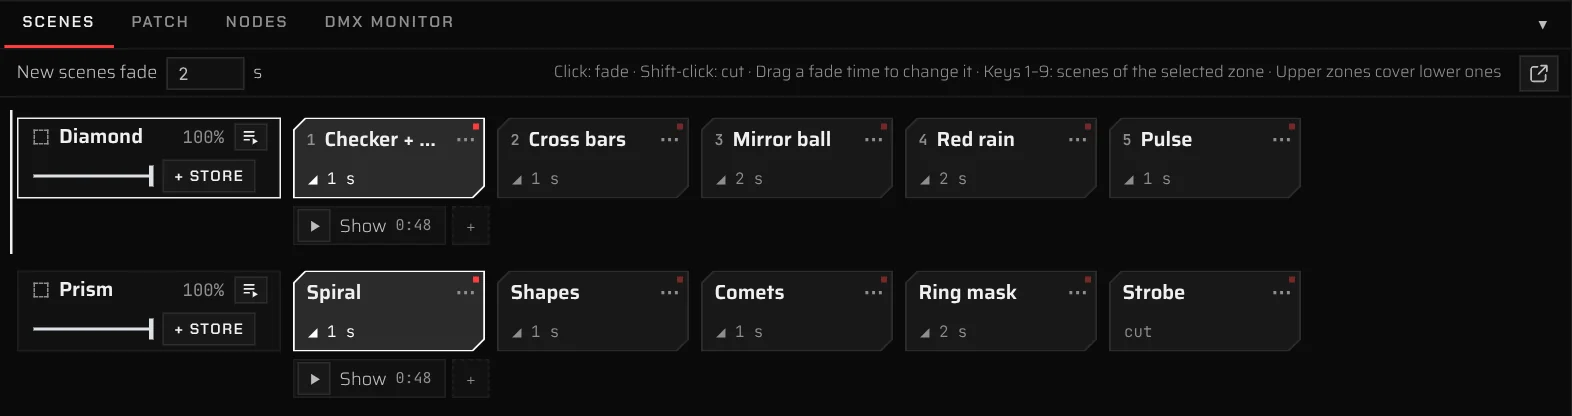
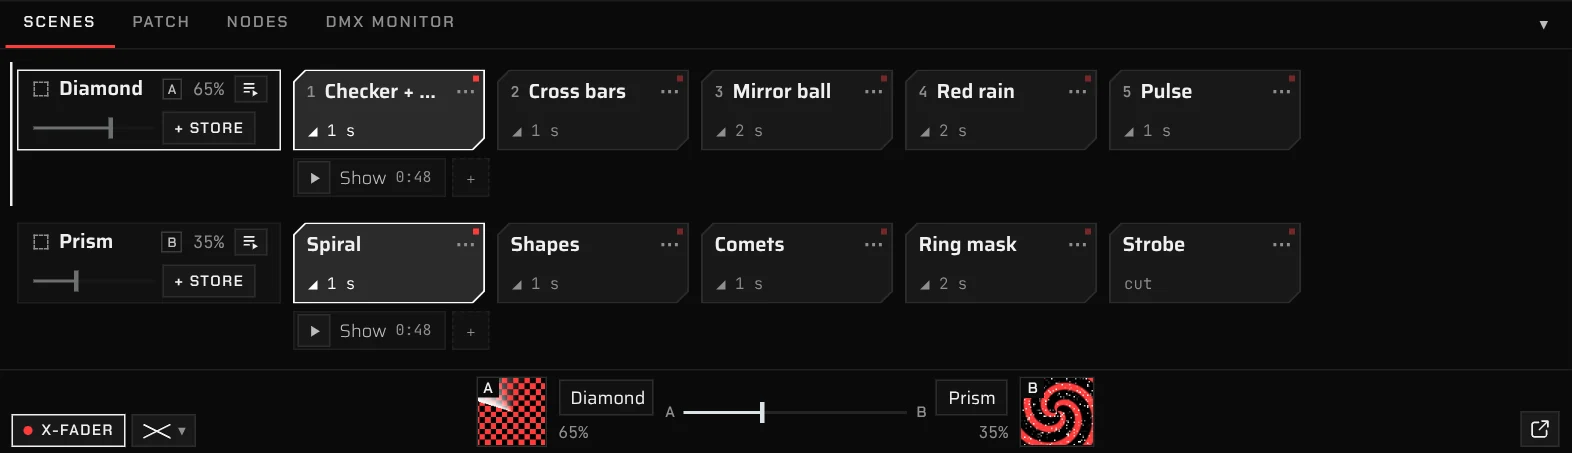
Site: the X-Fader (Scenes screenshot with it on, Scenes, MIDI and Remote lists); Discord community in Manual & support and the footer
Claude-Session: https://claude.ai/code/session_01TnTf954bCnfcgD4L8cjhPo

diff --git a/docs/index.html b/docs/index.html
@@ -240,7 +240,8 @@
 @media (max-width:560px){#noupix .np-dl{grid-template-columns:minmax(0,1fr)}}
 
 /* support */
-#noupix .np-help{display:grid;grid-template-columns:repeat(3,minmax(0,1fr));gap:16px}
+#noupix .np-help{display:grid;grid-template-columns:repeat(4,minmax(0,1fr));gap:16px}
+@media (max-width:1200px){#noupix .np-help{grid-template-columns:repeat(2,minmax(0,1fr))}}
 #noupix .np-help a{display:flex;flex-direction:column;gap:10px;padding:28px 26px;border:1px solid var(--line2);background:var(--bg1);transition:border-color .15s}
 #noupix .np-help a:hover{border-color:var(--text2)}
 #noupix .np-help b{font:700 20px/1.15 var(--label);letter-spacing:.04em;text-transform:uppercase}
@@ -466,10 +467,11 @@
             <li>Scenes per zone with crossfades; the fade time sits on each scene</li>
             <li>Playlists of scenes with play times: in a loop, once, or handing over to another</li>
             <li>Keys 1–9 play the scenes of the selected zone; a separate Scenes window for a second screen</li>
+            <li><b>X-Fader</b>: one fader between two zones, with a live preview of each; Mix, Dip or Cut</li>
           </ul>
         </div>
         <figure>
-          <div class="np-media np-cut"><img src="img/feature-scenes.webp" width="1572" height="416" loading="lazy" alt="The Scenes panel: the zones Diamond and Prism with five scenes each, their fade times and a Show playlist under each zone"></div>
+          <div class="np-media np-cut"><img src="img/feature-scenes.webp" width="1572" height="453" loading="lazy" alt="The Scenes panel: the zones Diamond and Prism with five scenes each, their fade times and a Show playlist under each zone; at the bottom the X-Fader, with the previews of Diamond (A) and Prism (B) and its fader a third of the way across"></div>
         </figure>
       </article>
 
@@ -500,7 +502,7 @@
           <h3>Learn your controller in a second</h3>
           <p>Press Learn, move a fader, click what it should move.</p>
           <ul class="np-list">
-            <li>Master, blackout, group dimmers, zone levels, scenes and playlists</li>
+            <li>Master, blackout, the X-Fader, group dimmers, zone levels, scenes and playlists</li>
             <li>Macros and any control of an effect; faders pick up where the slider is</li>
             <li>Every mapping as a wire in the patch bay</li>
             <li>No controller at hand? A virtual one on screen</li>
@@ -518,7 +520,7 @@
           <h3>Hand a phone to the end user</h3>
           <p>The people who run the place get the buttons they need, not the mapping. Phones, tablets and other computers on the network log in with a role.</p>
           <ul class="np-list">
-            <li><em>Remote</em>: a simple page to play scenes and playlists and dim each zone</li>
+            <li><em>Remote</em>: a simple page to play scenes and playlists and dim each zone, and the X-Fader when you choose</li>
             <li><em>Operator</em>: content, scenes and playlists; the mapping stays locked</li>
             <li><em>Programmer</em>: everything, with a password</li>
             <li>The phone page installs like an app</li>
@@ -658,6 +660,9 @@
         <a class="np-cut" data-np-href="/issues/new?labels=enhancement&amp;title=Idea%3A%20" href="https://github.com/nouled-studio/nouPix/issues/new?labels=enhancement&amp;title=Idea%3A%20">
           <b>Request a feature</b><span>Missing something for your installation? Describe the job you need to get done.</span><span class="np-go">Suggest a feature →</span>
         </a>
+        <a class="np-cut" href="https://discord.gg/fF9dY269U" rel="noopener">
+          <b>Community</b><span>Talk about nouPix on Discord: ask questions, share your installations and ideas with other users.</span><span class="np-go">Join the Discord →</span>
+        </a>
       </div>
       <p class="np-helpnote">The essentials are also in the <a data-np-href="#readme" href="https://github.com/nouled-studio/nouPix#readme">README</a>, every feature in detail in the <a data-np-href="/blob/main/docs/user-guide.md" href="https://github.com/nouled-studio/nouPix/blob/main/docs/user-guide.md">full reference</a>. Reports and requests live on GitHub; you need a free GitHub account. Check the <a data-np-href="/issues" href="https://github.com/nouled-studio/nouPix/issues">open issues</a> first: yours may be there already.</p>
     </div>
@@ -722,6 +727,7 @@
         <a data-np-href="" href="https://github.com/nouled-studio/nouPix">Source</a>
         <a data-np-href="/blob/main/docs/nouPix-getting-started.pdf" href="https://github.com/nouled-studio/nouPix/blob/main/docs/nouPix-getting-started.pdf">Manual (PDF)</a>
         <a data-np-href="/issues" href="https://github.com/nouled-studio/nouPix/issues">Issues</a>
+        <a href="https://discord.gg/fF9dY269U" rel="noopener">Discord</a>
         <a href="#np-licence">Licence</a>
         <a href="https://www.nouled.com">nouled.com</a>
       </nav>
